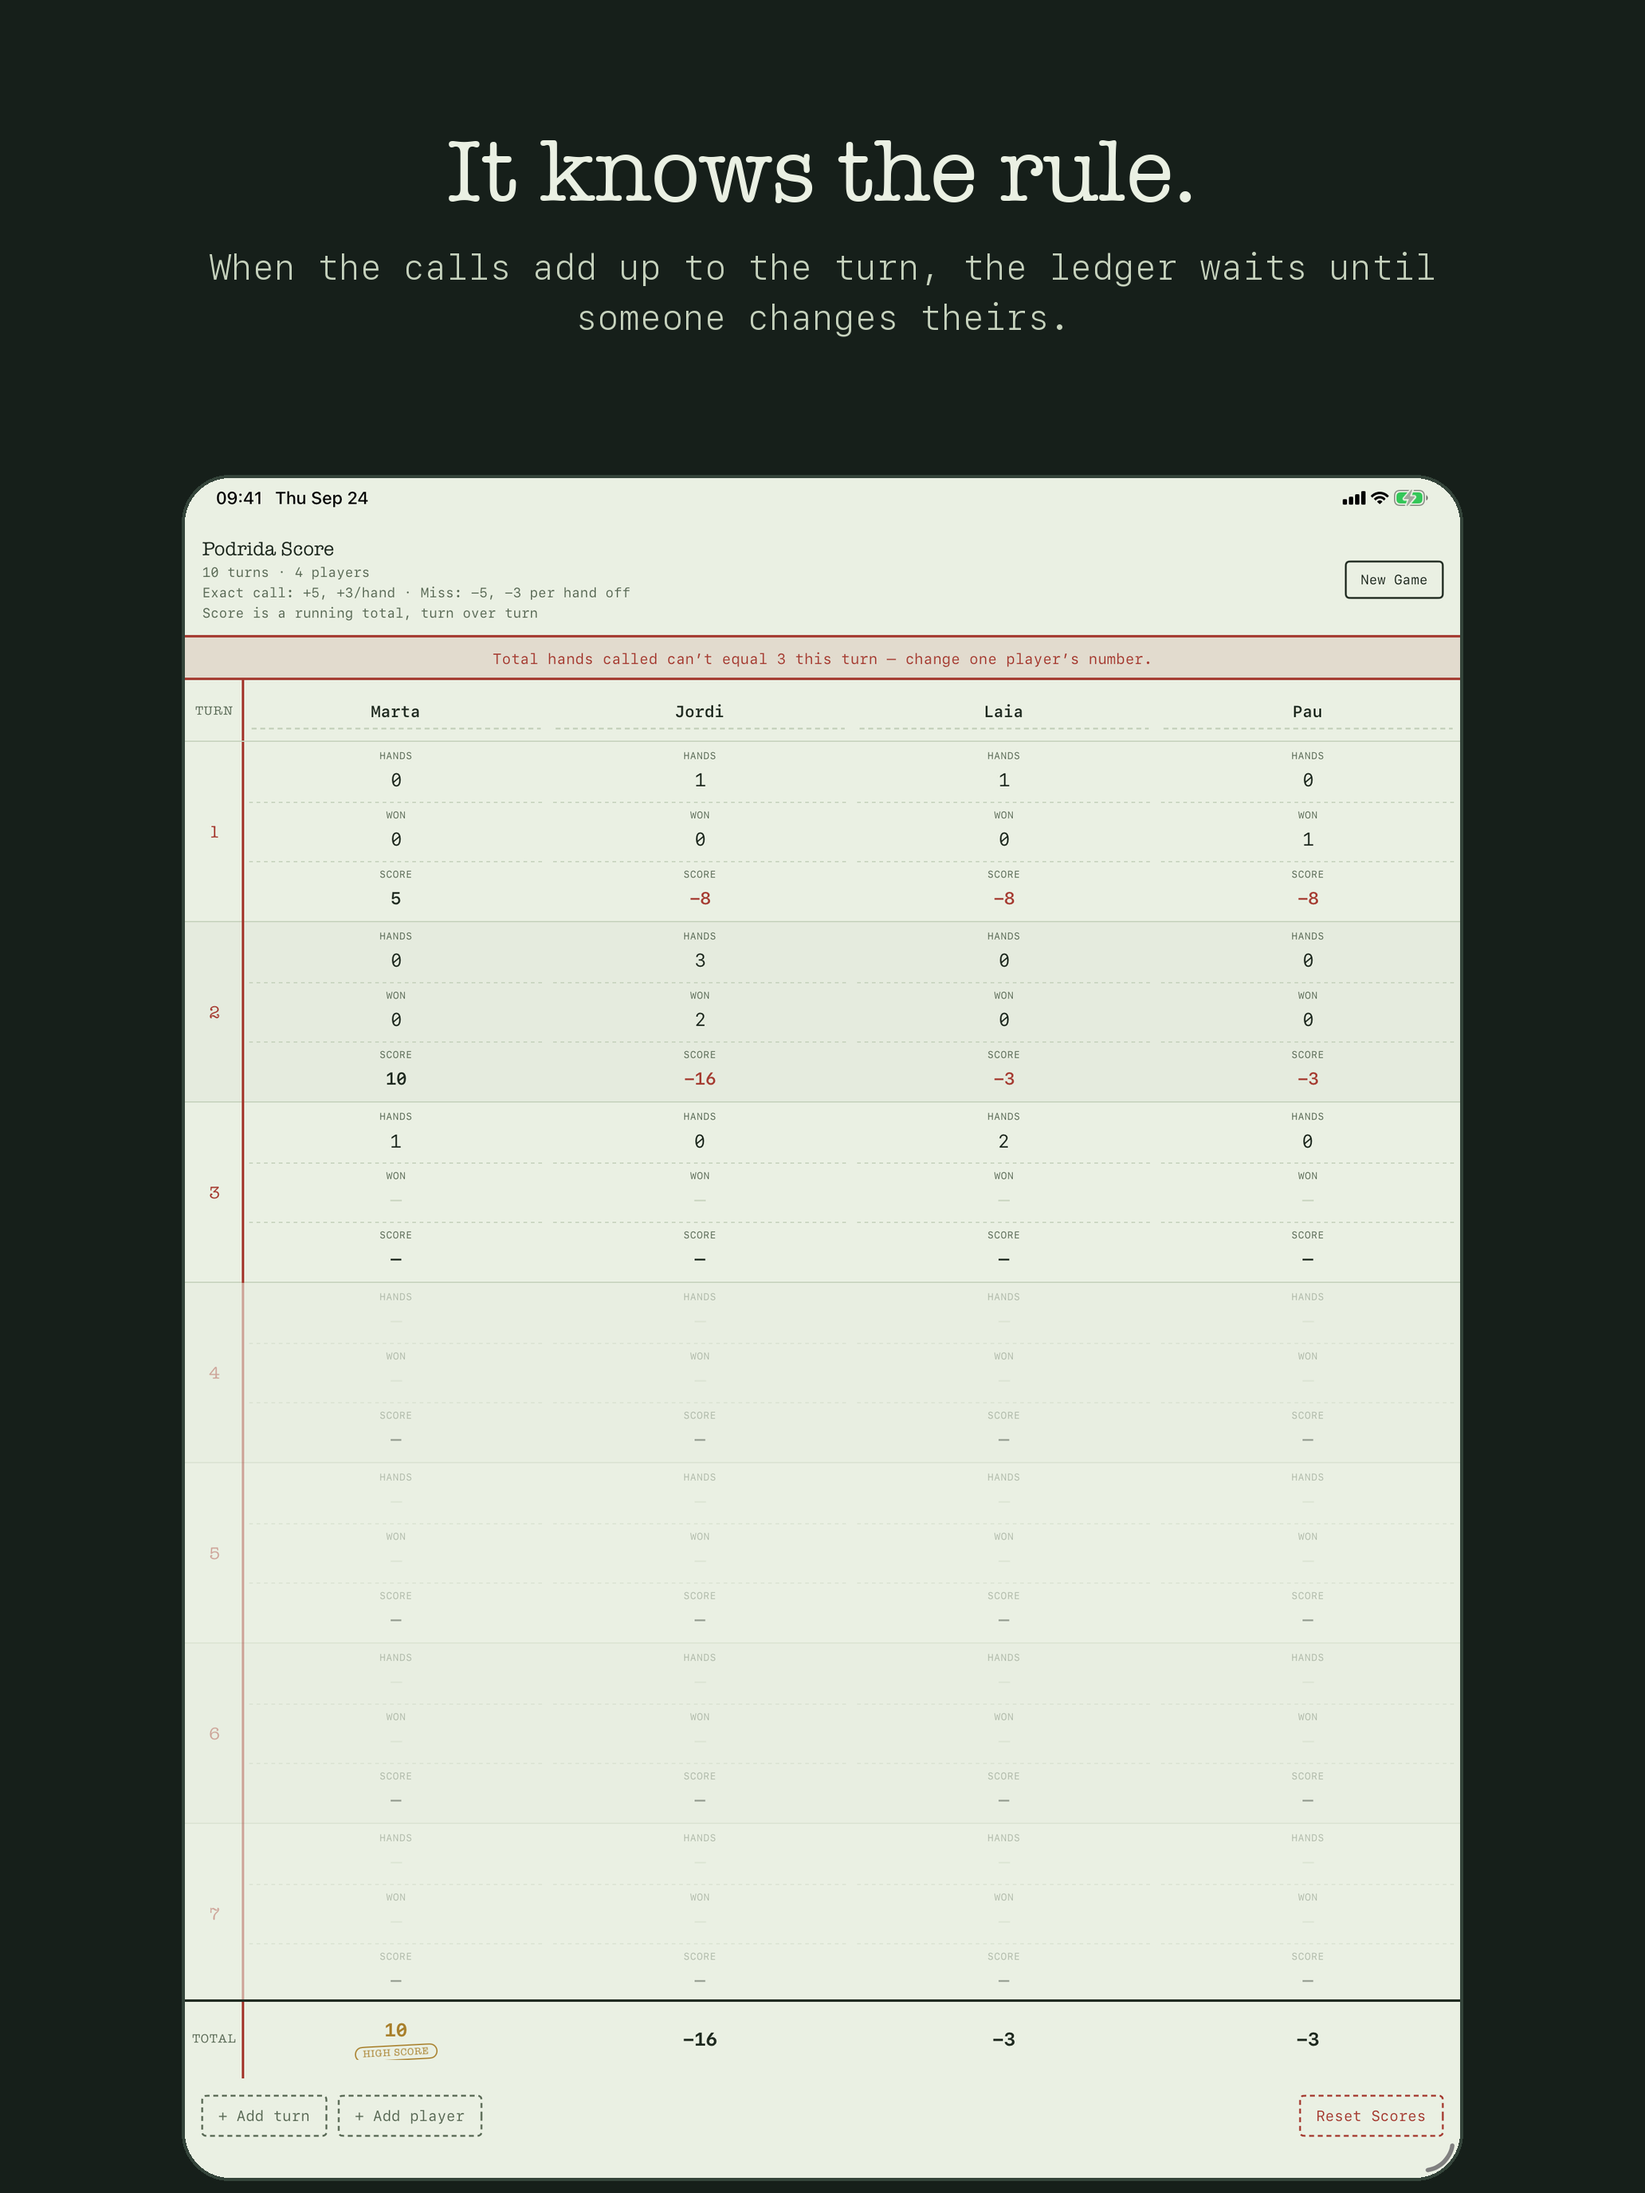
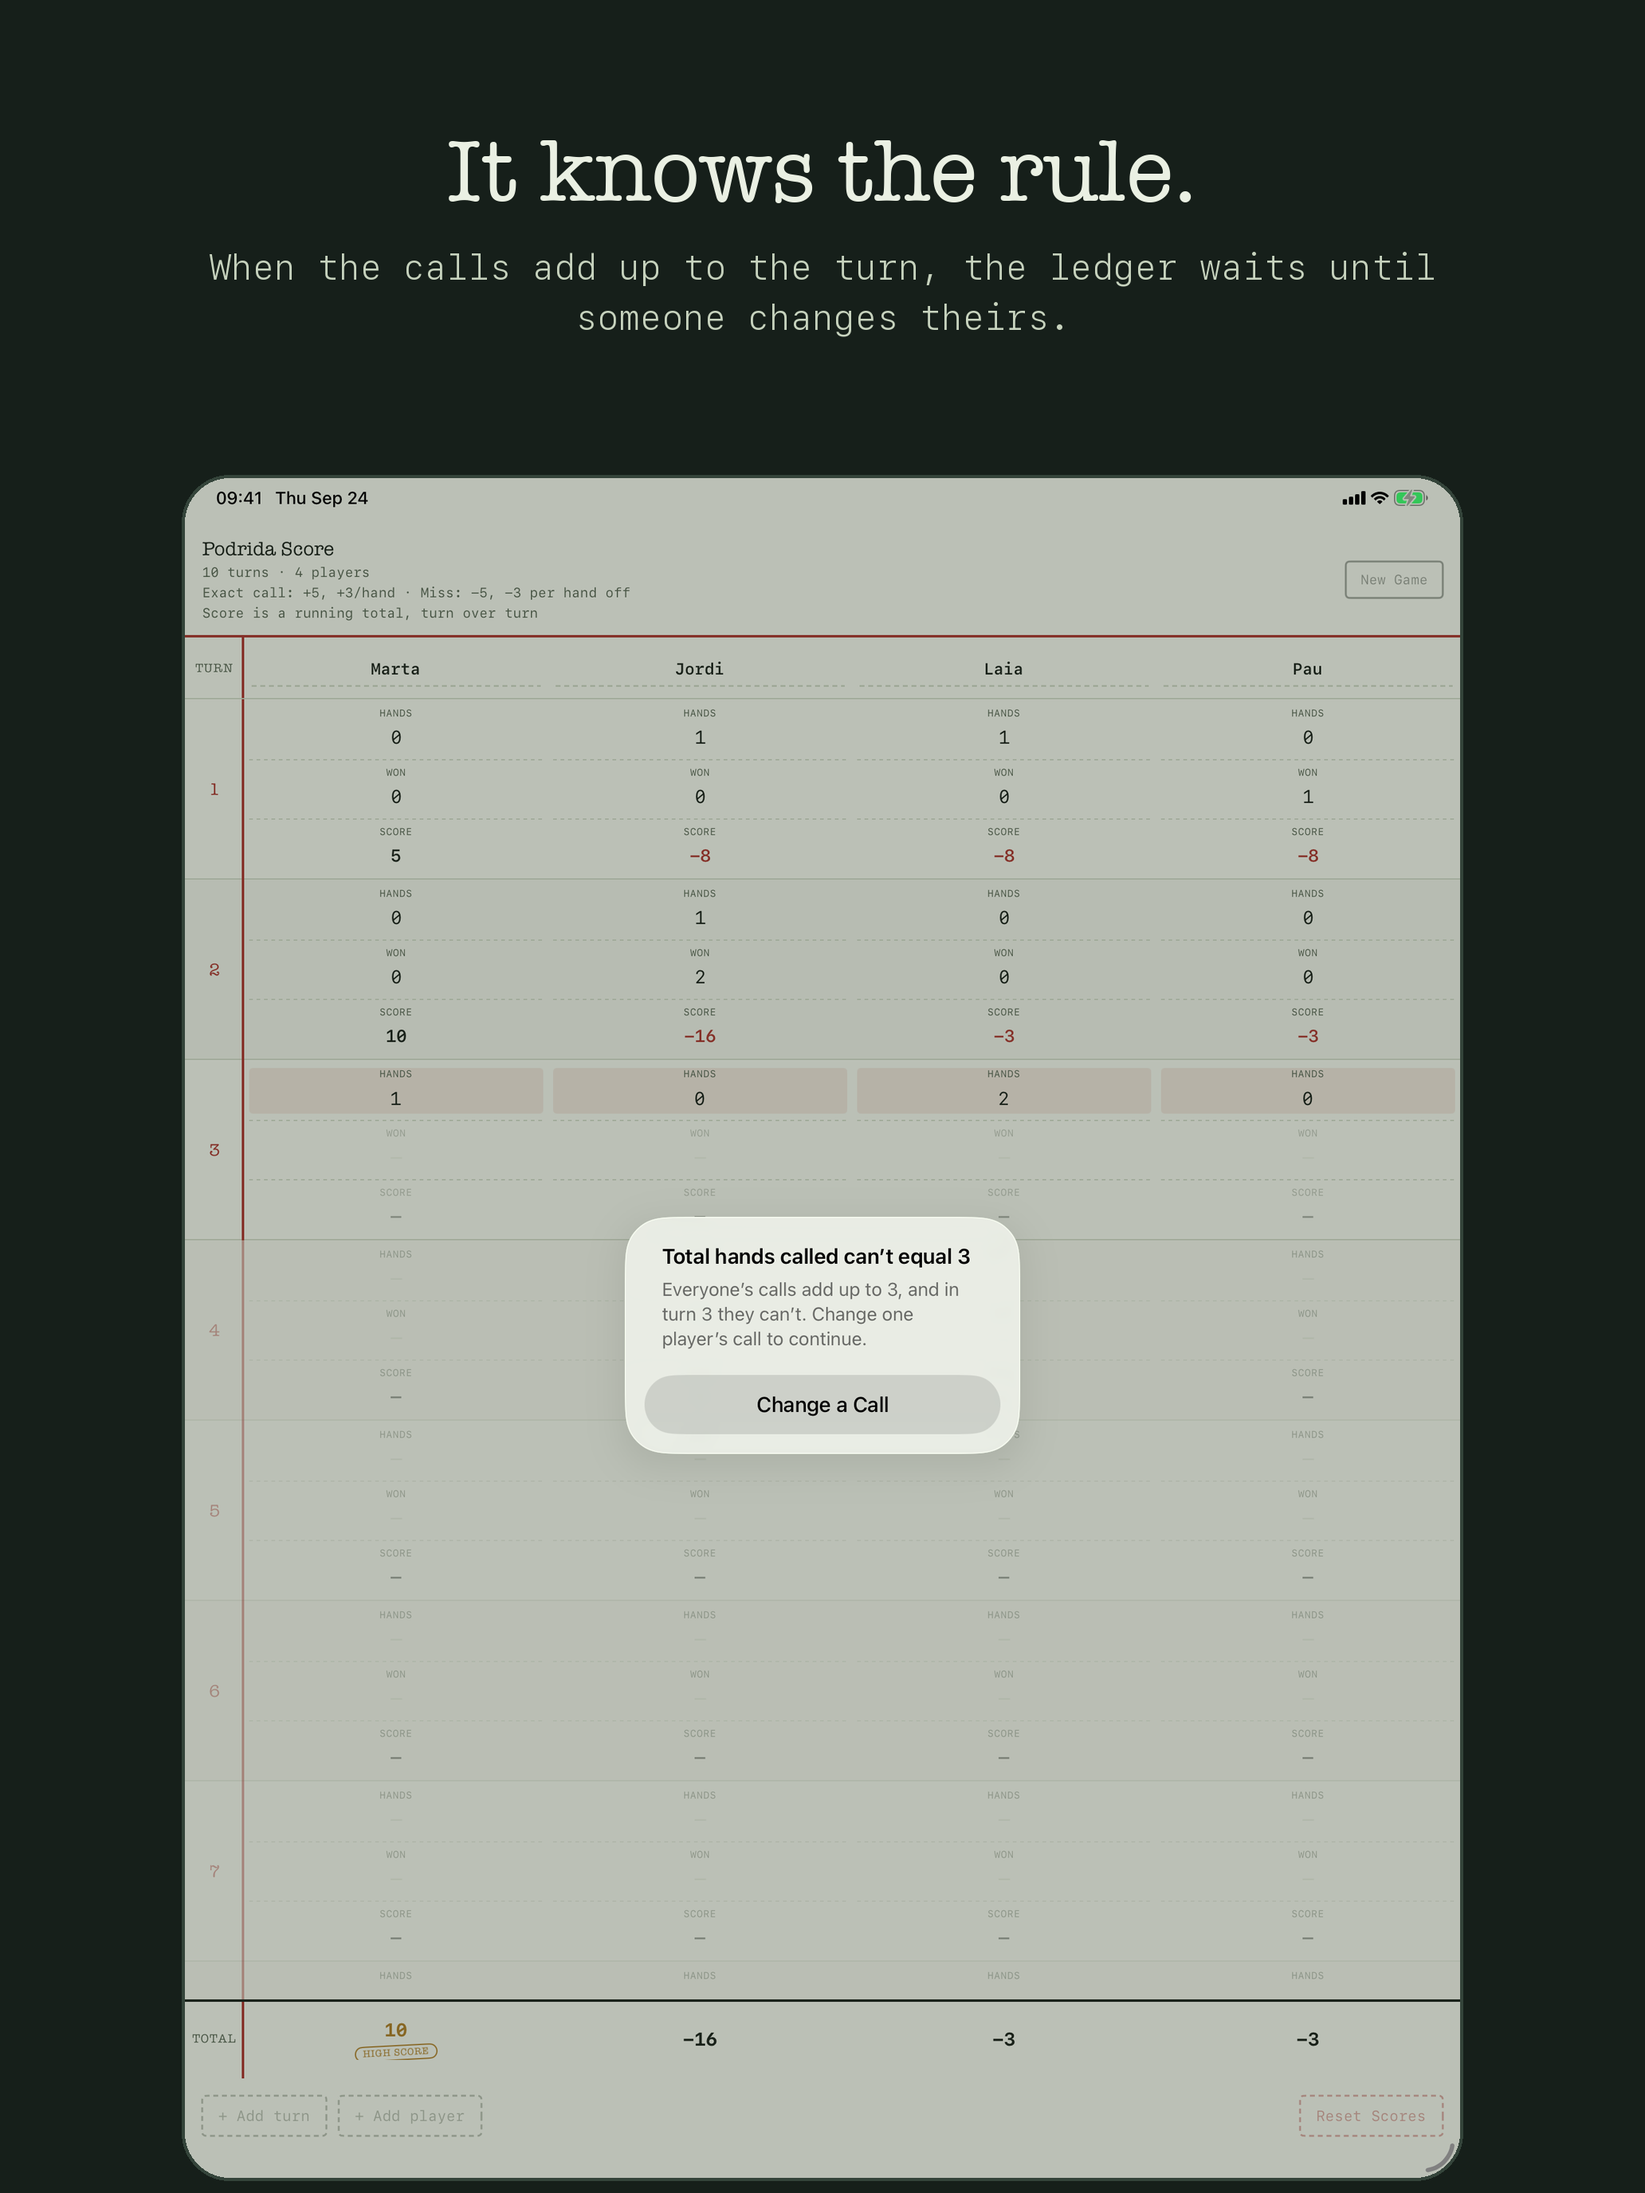
more behavior changes

diff --git a/ios/AppStore/tools/states.py b/ios/AppStore/tools/states.py
@@ -1,31 +1,38 @@
 """Demo games for the App Store screenshots, written as the app saves them (Game JSON)."""
-import json, random
+import json
+import random
+
 
 def play(names, turns, done, seed, partial=None):
-    """`done` turns fully played; `partial` = calls for the next turn (no results yet)."""
-    rnd = random.Random(seed)
-    n = len(names)
-    hands = [[None]*n for _ in range(turns)]
-    won = [[None]*n for _ in range(turns)]
-    for t in range(done):
-        cards = t + 1
-        w = [0]*n
-        for _ in range(cards): w[rnd.randrange(n)] += 1
+    """Plays `done` turns by the rules; `partial` is the next turn's calls, with no results yet."""
+    dice = random.Random(seed)
+    players = len(names)
+    hands = [[None] * players for _ in range(turns)]
+    won = [[None] * players for _ in range(turns)]
+    for turn in range(done):
+        dealt = turn + 1
+        results = [0] * players
+        for _ in range(dealt):
+            results[dice.randrange(players)] += 1
+        # Calls stay within the hands dealt and can't add up to them.
         while True:
-            calls = [max(0, x + rnd.choice([0, 0, 0, 1, -1])) for x in w]
-            if sum(calls) != cards: break
-        hands[t], won[t] = calls, w
+            calls = [min(dealt, max(0, result + dice.choice([0, 0, 0, 1, -1]))) for result in results]
+            if sum(calls) != dealt:
+                break
+        hands[turn], won[turn] = calls, results
     if partial is not None:
         hands[done] = partial
     return {"playerNames": names, "hands": hands, "won": won}
 
+
 states = {
     # Mid-game: five turns scored, the sixth being called.
     "ledger": play(["Marta", "Jordi", "Laia", "Pau"], 10, 5, 7, partial=[1, 2, None, None]),
-    # Turn 3 with calls adding up to 3: the ledger flags it.
+    # Turn 3 with calls adding up to 3: the ledger stops on it.
     "warning": play(["Marta", "Jordi", "Laia", "Pau"], 10, 2, 11, partial=[1, 0, 2, 0]),
     # A big table late in the game.
     "crowd": play(["Marta", "Jordi", "Laia", "Pau", "Núria", "Oriol"], 12, 8, 23),
 }
-for k, v in states.items():
-    json.dump(v, open(f"{k}.json", "w"), ensure_ascii=False, separators=(",", ":"))
+for name, game in states.items():
+    with open(f"{name}.json", "w") as output:
+        json.dump(game, output, ensure_ascii=False, separators=(",", ":"))
